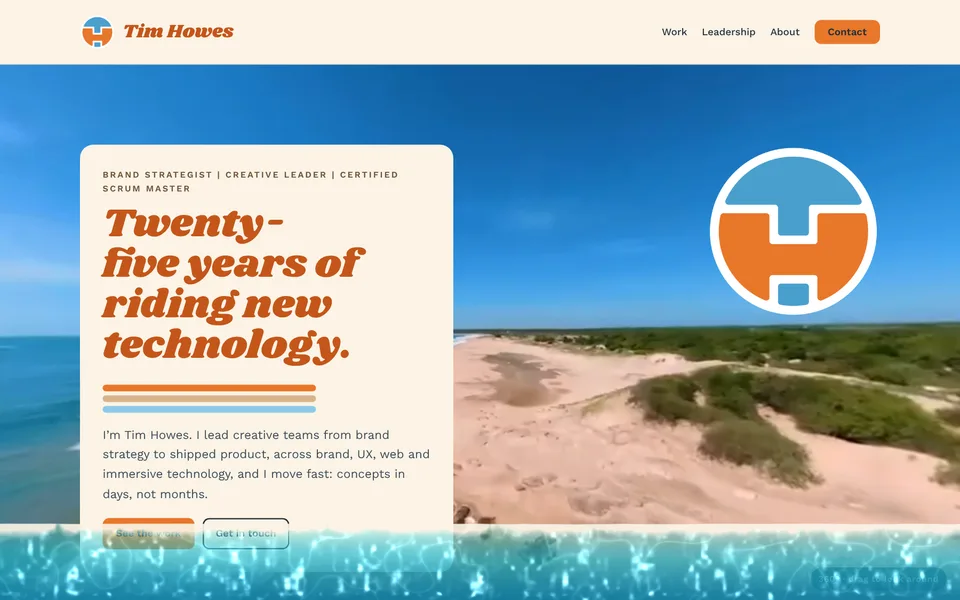
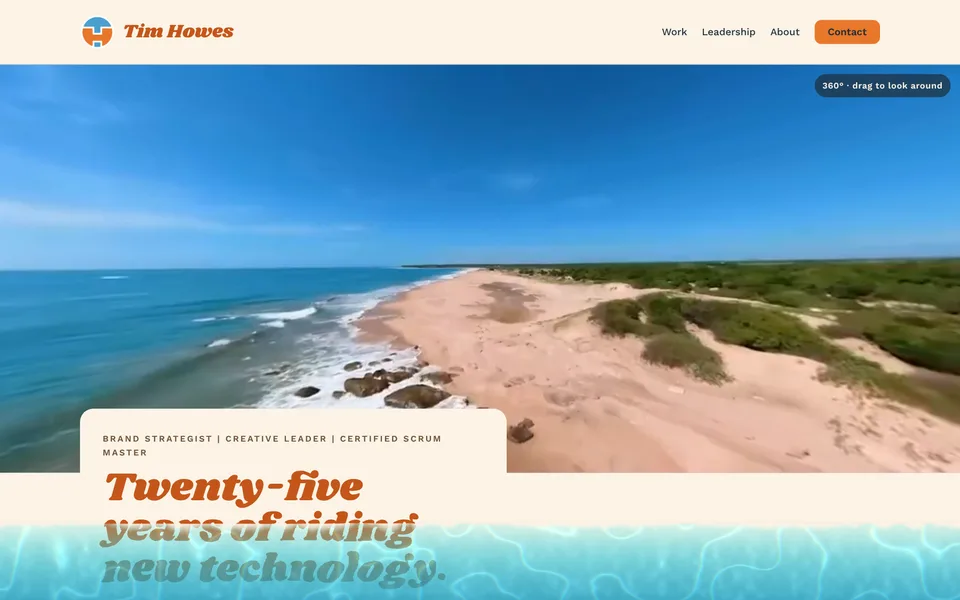
Remove AI in my workflow, refresh Water Lab images, louder water settings button
- Drop the AI in my workflow project (page, card, image, home mention);
  the How I use AI summary stays on the Work page. Chain now runs Scrum 101
  -> Howes Workout -> Water Lab.
- Water Lab hero and card show the current home page with the water.
- The settings button reads 'Make your own waves', with a wave icon, the
  sun orange fill and a gentle pulse (off for reduced motion); on phones it
  sits centred just above the water.
- Water Lab key figure: 9 settings, counting page bending.

Claude-Session: https://claude.ai/code/session_013QFSdcC5VqpcqHtkJY3pzK

diff --git a/js/water.js b/js/water.js
@@ -547,7 +547,14 @@
   function buildLab() {
     var st = document.createElement("style");
     st.textContent =
-      ".wl-toggle{position:fixed;right:calc(12px + env(safe-area-inset-right,0px));top:calc(50% - 22px);z-index:62;font:600 13px var(--sans,system-ui);background:#1F2E3A;color:#FBF3E6;border:0;border-radius:999px;padding:10px 14px;cursor:pointer;box-shadow:0 4px 14px rgba(31,46,58,.3)}" +
+      // the way in to the settings: big, warm and gently pulsing so visitors notice it
+      ".wl-toggle{position:fixed;right:calc(14px + env(safe-area-inset-right,0px));top:calc(50% - 28px);z-index:62;display:flex;align-items:center;gap:10px;font:700 16px var(--sans,system-ui);background:#E8772A;color:#1F2E3A;border:3px solid #FBF3E6;border-radius:999px;padding:13px 20px 13px 16px;cursor:pointer;box-shadow:0 8px 24px rgba(31,46,58,.35)}" +
+      ".wl-toggle:hover{background:#F5A04E}" +
+      ".wl-toggle svg{width:24px;height:24px;flex:none}" +
+      ".wl-toggle::after{content:\"\";position:absolute;inset:-3px;border-radius:999px;border:3px solid #E8772A;animation:wl-pulse 2.4s ease-out infinite;pointer-events:none}" +
+      "@keyframes wl-pulse{0%{transform:scale(1);opacity:.8}100%{transform:scale(1.25,1.6);opacity:0}}" +
+      "@media (prefers-reduced-motion:reduce){.wl-toggle::after{animation:none;opacity:0}}" +
+      "@media (max-width:700px){.wl-toggle{top:auto;right:auto;left:50%;transform:translateX(-50%);bottom:calc(18vh + 64px + env(safe-area-inset-bottom,0px));white-space:nowrap}}" +
       ".wl{position:fixed;right:calc(12px + env(safe-area-inset-right,0px));top:calc(64px + env(safe-area-inset-top,0px));z-index:63;width:min(300px,calc(100vw - 24px));max-height:calc(100% - 96px);overflow:auto;background:#FBF3E6;color:#1F2E3A;border-radius:16px;padding:16px;font:14px var(--sans,system-ui);box-shadow:0 10px 40px rgba(31,46,58,.35)}" +
       ".wl-top{display:flex;justify-content:space-between;align-items:center;gap:8px}" +
       ".wl button.b{font:600 13px var(--sans,system-ui);border:1px solid #1F2E3A;background:transparent;color:#1F2E3A;border-radius:999px;padding:7px 12px;cursor:pointer}" +
@@ -568,7 +575,8 @@
     var open = window.innerWidth >= 900;
     try { var o = sessionStorage.getItem("water-lab-open"); if (o) open = o === "1"; } catch (e) {}
     var tog = document.createElement("button");
-    tog.type = "button"; tog.className = "wl-toggle"; tog.textContent = "Water lab";
+    tog.type = "button"; tog.className = "wl-toggle";
+    tog.innerHTML = "<svg viewBox=\"0 0 24 24\" fill=\"none\" stroke=\"currentColor\" stroke-width=\"2.4\" stroke-linecap=\"round\" aria-hidden=\"true\"><path d=\"M2 9c2.5-2.5 4.5-2.5 7 0s4.5 2.5 7 0 4.5-2.5 6 0\"/><path d=\"M2 16c2.5-2.5 4.5-2.5 7 0s4.5 2.5 7 0 4.5-2.5 6 0\"/></svg><span>Make your own waves</span>";
     var panel = document.createElement("div");
     panel.className = "wl"; panel.hidden = !open;
     panel.setAttribute("role", "dialog"); panel.setAttribute("aria-label", "Water lab settings");

diff --git a/work/scrum-101.html b/work/scrum-101.html
@@ -44,7 +44,7 @@
 <section class="block"><h2>Highlights</h2><div class="gallery"><figure class="wide"><img src="../img/scrum-learn-burn.webp" alt="Learn follows how I teach Scrum. Apply tracks the sprint with a live burndown against the last sprint." loading="lazy"><figcaption>Learn follows how I teach Scrum. Apply tracks the sprint with a live burndown against the last sprint.</figcaption></figure><figure class="wide"><img src="../img/scrum-play-apply.webp" alt="Play: icebreakers, mindset games and retros ready to run. Apply: a guided sprint path for every role." loading="lazy"><figcaption>Play: icebreakers, mindset games and retros ready to run. Apply: a guided sprint path for every role.</figcaption></figure></div></section>
 <section class="block"><h2>Results</h2><ul class="wins"><li>A working, mobile-first app in one day, from my own workshop material.</li><li><span class="ph">[Add link once it’s live on Netlify]</span></li></ul></section>
 <nav class="next" aria-label="Next project"><a class="back" href="../work.html#ai">← All AI &amp; Rapid Prototyping work</a>
-  <a href="ai-workflow.html"><span class="label">Next project</span><span class="title">AI in my workflow →</span></a></nav>
+  <a href="howes-workout.html"><span class="label">Next project</span><span class="title">Howes Workout →</span></a></nav>
 </main>
 <footer class="site-foot" id="contact"><div class="wrap">
   <p class="eyebrow" style="color:#D8B48A">Contact</p>

diff --git a/work/water-lab.html b/work/water-lab.html
@@ -22,7 +22,7 @@
   <a class="back" href="../work.html#ai">← AI &amp; Rapid Prototyping</a>
   <h1>Water Lab</h1>
   <p class="tagline">A live ocean along the bottom of every page. It responds to your cursor, your scrolling and the tilt of your phone.</p>
-  <div class="keys"><div><b>1 day</b><span>concept to live site</span></div><div><b>1 file</b><span>no libraries, hand-built WebGL</span></div><div><b>8</b><span>settings you can tune on this page</span></div></div>
+  <div class="keys"><div><b>1 day</b><span>concept to live site</span></div><div><b>1 file</b><span>no libraries, hand-built WebGL</span></div><div><b>9</b><span>settings you can tune on this page</span></div></div>
   <div class="p-hero"><img src="../img/water-lab.webp" alt="Turquoise water with foam along its edge across the bottom of the portfolio home page"></div>
   <dl class="summary">
     <div><dt>Client</dt><dd>Personal product</dd></div>

diff --git a/index.html b/index.html
@@ -42,7 +42,7 @@
   <p class="meta">Christopher Newport University · DHS · Valley of the Shadow · RIVERE</p>
 </a></div></section><section class="cat" id="ai"><div class="wrap"><div class="cat-head"><h2>AI &amp; Rapid Prototyping</h2><p>Working products in days, not months. AI is part of how I design, build and test.</p></div><a class="card feature" href="work.html#ai">
   <div class="thumb"><img src="img/water-lab-card.webp" alt="" loading="lazy"><span class="go" aria-hidden="true">See AI &amp; Rapid Prototyping work →</span></div>
-  <p class="meta">Scrum 101 · AI in my workflow · Howes Workout · Water Lab</p>
+  <p class="meta">Scrum 101 · Howes Workout · Water Lab</p>
 </a></div></section></main><footer class="site-foot" id="contact"><div class="wrap">
   <p class="eyebrow" style="color:#D8B48A">Contact</p>
   <h2>Let’s make something.</h2>

diff --git a/work.html b/work.html
@@ -90,11 +90,6 @@
   <h3>Scrum 101</h3>
   <p class="meta">Personal product</p>
   <p class="result">Concept to working app in one day</p>
-</a><a class="card" href="work/ai-workflow.html">
-  <div class="thumb"><img src="img/ai-site.webp" alt="" loading="lazy"><span class="go" aria-hidden="true">View project →</span></div>
-  <h3>AI in my workflow</h3>
-  <p class="meta">Ruscella Immersive, OrchestrateXR and my own products</p>
-  <p class="result">Design cycles from weeks to days</p>
 </a><a class="card" href="work/howes-workout.html">
   <div class="thumb"><div class="ph-tile"><img src="img/sticker-160.png" alt=""><span>Howes Workout</span></div><span class="go" aria-hidden="true">View project →</span></div>
   <h3>Howes Workout</h3>
